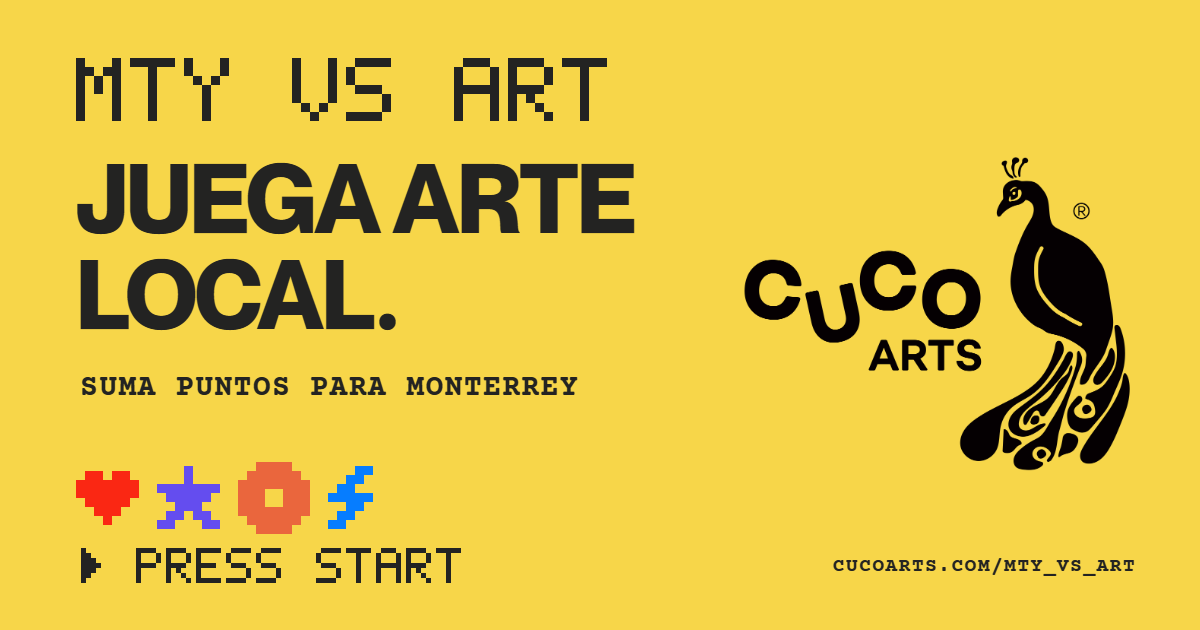
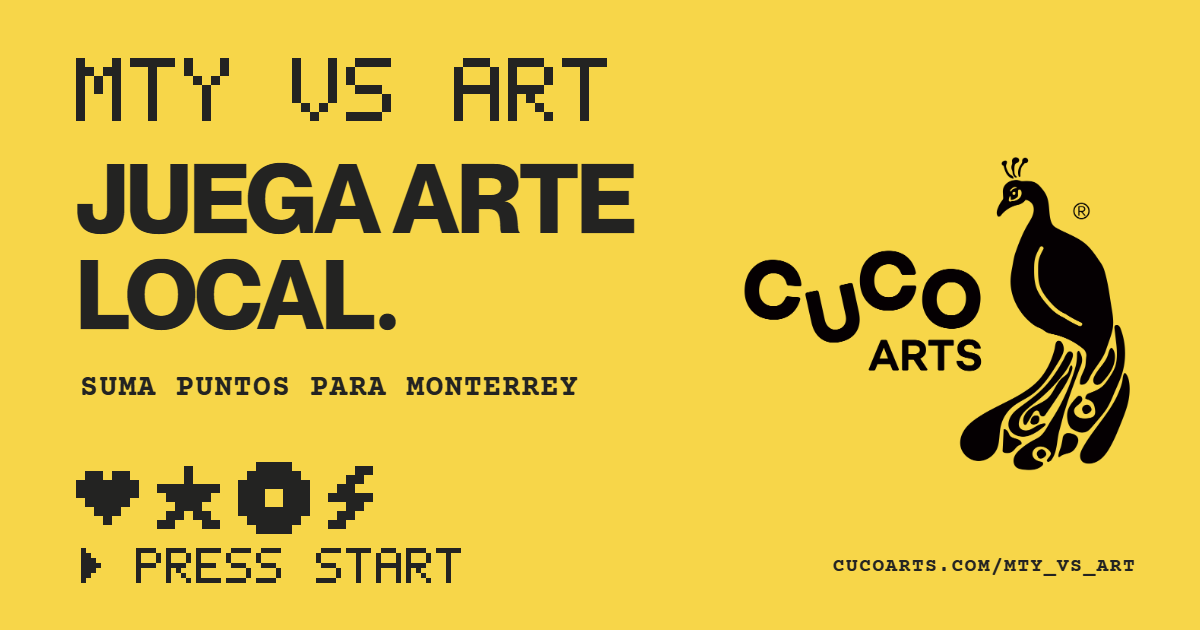
/mty_vs_art: tabla de comunidad con porcentajes, contraste en modo noche y sprites de la imagen en un tono
"Quien forma la comunidad" ahora es una tabla (cuentas y XP por categoria, con porcentaje y barra, mas total). Se reordenan las tarjetas, se corrigen contrastes (boton rojo, etiqueta YOU ARE HERE) y la imagen de vista previa lleva los sprites en un solo tono.

Changed region(s): [[0.0617, 0.7238, 0.3083, 0.8444]]

diff --git a/frontend/public/mty_vs_art/index.html b/frontend/public/mty_vs_art/index.html
@@ -23,7 +23,7 @@ a{color:inherit}.w{max-width:1040px;margin:0 auto;padding:0 max(16px,env(safe-ar
 .hero p.lead{font:800 clamp(26px,4.4vw,42px)/1.08 var(--sans);letter-spacing:-.03em;margin:18px 0 6px;max-width:20ch}
 .hero p.sub{font:700 16px var(--mono);max-width:60ch;margin:6px 0 22px}
 .btns{display:flex;gap:12px;flex-wrap:wrap}.btn{display:inline-block;font:800 17px var(--sans);text-decoration:none;border:4px solid var(--ink);border-radius:999px;padding:13px 26px;background:var(--dk);color:var(--yel);cursor:pointer}
-.btn.alt{background:var(--surf);color:var(--ink)}.btn.red{background:var(--red);color:#fff}.btn:hover{transform:translateY(-2px)}
+.btn.alt{background:var(--surf);color:var(--ink)}.btn.red{background:#C71F0E;color:#fff}.btn:hover{transform:translateY(-2px)}
 section{padding:40px 0}section h2{font:800 clamp(26px,4vw,38px)/1.05 var(--sans);letter-spacing:-.03em;margin:0 0 6px}section .k{font:700 13px var(--mono);letter-spacing:.12em;text-transform:uppercase;color:var(--mut);margin-bottom:6px}
 .card{background:var(--surf);border:5px solid var(--ink);border-radius:28px;padding:20px 22px}.dark{background:var(--dk);color:var(--cream)}
 .grid{display:grid;gap:14px}.g2{grid-template-columns:repeat(2,1fr)}.g3{grid-template-columns:repeat(3,1fr)}.g4{grid-template-columns:repeat(4,1fr)}
@@ -45,7 +45,7 @@ input[type=text],input[type=email],input[type=tel],select{width:100%;font:600 18
 .opt{display:flex;gap:8px;flex-wrap:wrap}.opt label{margin:0;display:flex;align-items:center;gap:6px;border:3px solid var(--ink);border-radius:999px;padding:7px 14px;cursor:pointer;background:var(--surf);font-size:12px}.opt input{accent-color:var(--ink)}
 .opt label:has(input:checked){background:var(--yel);color:var(--dk)}.hp{position:absolute;left:-9999px;width:1px;height:1px;overflow:hidden}
 .ck{display:flex;gap:10px;align-items:flex-start;font:600 15px/1.4 var(--sans);text-transform:none;letter-spacing:0}.ck input{width:22px;height:22px;margin-top:2px;accent-color:var(--ink)}
-.msg{font:700 15px var(--mono);padding:12px 14px;border:4px solid var(--ink);border-radius:16px}.msg.ok{background:var(--lime);color:var(--dk)}.msg.err{background:var(--red);color:#fff}
+.msg{font:700 15px var(--mono);padding:12px 14px;border:4px solid var(--ink);border-radius:16px}.msg.ok{background:var(--lime);color:var(--dk)}.msg.err{background:#C71F0E;color:#fff}
 .code{font:800 36px var(--mono);letter-spacing:.12em;background:var(--surf);border:4px dashed var(--ink);border-radius:16px;padding:10px 18px;display:inline-block}
 .shots{display:grid;grid-template-columns:repeat(5,1fr);gap:12px}.shots a{display:block;border:4px solid var(--ink);border-radius:18px;overflow:hidden;background:var(--ink);text-decoration:none}.shots img{display:block;width:100%;height:auto}.shots span{display:block;font:800 12px var(--mono);padding:6px 8px;color:var(--cream);text-transform:uppercase}
 @media(max-width:900px){.shots{grid-template-columns:repeat(2,1fr)}}
@@ -54,6 +54,16 @@ footer{background:var(--dk);border-top:4px solid var(--ink);color:var(--cream);p
 .hide{display:none!important}
 .chips{display:flex;flex-wrap:wrap;gap:8px}.chp{display:inline-block;border:3px solid var(--ink);border-radius:999px;padding:5px 12px;background:#fff;font:700 13px var(--mono)}.chp b{font-weight:800}
 section{scroll-margin-top:66px}
+/* tabla «quién forma la comunidad» */
+.cm table{table-layout:fixed}.cm caption{caption-side:top;text-align:left;font:700 13px/1.4 var(--mono);color:var(--mut);padding:0 0 10px}
+.cm th,.cm td{padding:10px 6px;vertical-align:middle;overflow-wrap:anywhere}.cm thead th{border-bottom:3px solid var(--ink);color:var(--mut);font-size:11px;letter-spacing:.06em;line-height:1.25;text-transform:uppercase;vertical-align:bottom}
+.cm th[scope=row]{font:800 15px/1.2 var(--sans);letter-spacing:-.01em;text-transform:none;color:var(--ink);border-top:2px dashed var(--line,rgba(35,35,34,.25))}.cm td{border-top:2px dashed var(--line,rgba(35,35,34,.25))}
+.cm .c1{width:40%}.cm .c2,.cm .c3{width:30%}
+.cm .nb{display:block;font:800 18px/1.1 var(--mono)}.cm .pc{display:flex;align-items:center;gap:6px;margin-top:5px;font:700 12px var(--mono)}
+.cm .tr{flex:1;min-width:20px;height:10px;border:2px solid var(--ink);border-radius:99px;background:var(--bg);overflow:hidden}.cm .tr i{display:block;height:100%;background:var(--yel)}.cm .tr.x i{background:var(--vio)}
+.cm tfoot th,.cm tfoot td{border-top:3px solid var(--ink);font-weight:800}.cm tr.sc th[scope=row]{font-weight:700;color:var(--mut)}
+.cm .nt{margin:12px 0 0;font:700 12px/1.4 var(--mono);color:var(--mut)}
+@media(max-width:420px){.cm th,.cm td{padding:9px 3px}.cm th[scope=row]{font-size:14px}.cm .nb{font-size:16px}.cm .c1{width:38%}.cm .pc{font-size:11px}}
 .btn{min-height:48px}
 .hero{padding:28px 0 24px}
 .hero p.lead{margin:14px 0 4px}
@@ -265,7 +275,8 @@ header.top .wrap{padding-top:14px;padding-bottom:14px}
 .sg.on::after{content:"✓";position:absolute;top:4px;right:8px;font:800 15px var(--mono);color:var(--ink)}
 .sg.here{border-color:var(--blue)!important;box-shadow:4px 4px 0 var(--blue)}
 .sg.here::after{content:"📍";position:absolute;top:4px;right:8px;font-size:14px}
-.sg .tag{display:block;margin-top:4px;font:800 10px var(--mono);color:var(--blue);letter-spacing:.08em}
+.sg .tag{display:block;margin-top:4px;font:800 10px var(--mono);color:#0455B8;letter-spacing:.08em}
+:root[data-theme="dark"] .sg .tag{color:#6FB1FF}@media (prefers-color-scheme:dark){:root:not([data-theme="light"]) .sg .tag{color:#6FB1FF}}
 /* emojis en rótulos */
 #jugar .k::before{content:"🎮 "}#unete .k::before{content:"👾 "}#historias .k::before{content:"🎨 "}#comparte .k::before{content:"⭐ "}#reglas .w>.k::before{content:"🕹 "}.soon .k::before{content:"🪙 "}
 </style>
@@ -295,8 +306,8 @@ header.top .wrap{padding-top:14px;padding-bottom:14px}
   <div class="dates" id="dates"></div>
   <div class="grid g2" style="margin-top:14px">
     <div class="card"><div class="k" data-i="top_ev">🏆 TOP EVENTOS DEL MES</div><div id="ev-list"></div></div>
-    <div class="card" style="grid-column:1/-1"><div class="k" id="cats-k">QUIÉN FORMA LA COMUNIDAD</div><div id="cats" class="chips"></div></div>
     <div class="card"><div class="k" id="top-u">⚔ TOP ART PEOPLE</div><div id="u-list"></div><p class="sm" id="claimed" style="margin:12px 0 0"></p></div>
+    <div class="card cm" style="grid-column:1/-1"><div class="k" id="cats-k">QUIÉN FORMA LA COMUNIDAD</div><div id="cats"></div></div>
   </div>
   <div class="card" style="margin-top:14px"><div class="k" data-i="src_k">QUIÉN SUMA</div><div class="seg" id="seg-src"></div><div class="sm" id="src-l" style="margin-top:8px;display:flex;justify-content:space-between;gap:8px;flex-wrap:wrap"></div><div class="k" style="margin-top:14px" data-i="stage_k">POR ETAPA DEL EVENTO</div><div class="seg" id="seg-et"></div><div class="sm" id="et-l" style="margin-top:8px;display:flex;gap:6px 14px;flex-wrap:wrap"></div></div>
 </div></section>
@@ -404,9 +415,9 @@ const PXF={A:'0E,11,11,1F,11,11,11',B:'1E,11,11,1E,11,11,1E',C:'0E,11,10,10,10,1
 const PXG={};Object.keys(PXF).forEach(k=>{PXG[k]=PXF[k].split(',').map(h=>parseInt(h,16))});
 function px(cv,txt,s,color,align){txt=String(txt).toUpperCase();const w=Math.max(1,txt.length*6*s-s),h=7*s;cv.width=w;cv.height=h+s*0;cv.style.width=w+'px';cv.style.maxWidth='100%';cv.style.height='auto';const g=cv.getContext('2d');g.clearRect(0,0,w,h);g.fillStyle=color||'#232322';let cx=0;for(const ch of txt){const rows=PXG[ch]||PXG['?'];rows.forEach((b,r)=>{for(let c=0;c<5;c++)if(b&(16>>c))g.fillRect(cx+c*s,r*s,s,s)});cx+=6*s}}
 /* ---------- textos ES / EN ---------- */
-const T={es:{nav_events:'Eventos',nav_join:'Únete',back:'Volver',lang_btn:'EN',th_day:'Modo día',th_night:'Modo noche',theme_to_light:'Cambiar a modo día',theme_to_dark:'Cambiar a modo noche',lang_title:'Cambiar idioma',d_season:'Temporada',d_data:'Datos al',d_week:'Semana',loading:'CARGANDO',hero_lead:'Juega arte local en Monterrey.',hero_sub:'Crea · experimenta · comparte · repite. Suma puntos para ti y para la ciudad.',cta_claim:'Reclama tu usuario',cta_share:'Comparte un evento',board_h:'La comunidad de Monterrey',xp_month:'XP DEL MES',week_k:'ESTA SEMANA',src_k:'QUIÉN SUMA',stage_k:'POR ETAPA DEL EVENTO',top_ev:'🏆 TOP EVENTOS DEL MES',how_k:'Cómo se juega',how_h:'Cuatro pasos, una ciudad.',s1:'Crea tu propio post de arte local: foto, video o dibujo de lo que ves en un evento.',s2:'Experimenta: prueba un evento, un artista o una zona de Monterrey que no conocías.',s3:'Comparte: publica y etiqueta al evento y a @cucoarts, o compártelo desde cucoarts.com.',s4:'Repite cada semana: tus puntos se acumulan, subes de rango y la ciudad sube de nivel.',rules_k:'Las reglas',rules_h:'Puntos, etapas y rangos',t_act:'Acción',t_pts:'Puntos',t_stage:'Etapa del evento',t_when:'Cuándo',lv_k:'NIVELES DE LA CIUDAD (SE REINICIAN CADA MES)',rules_note:'Solo cuentan posts, historias y acciones con fecha desde el día 1 del mes. Las cuentas aliadas (patrocinadores, programas y fiestas oficiales) suman, pero se muestran aparte. Las cifras son las que se ven en pantalla; si Instagram oculta los me gusta, no se inventan.',join_k:'Únete',join_h:'Reclama tu usuario.',join_p:'Registra tu usuario de Instagram en ART PEOPLE. Todos los puntos que ya hayas sumado con posts, historias y eventos compartidos pasan a tu perfil.',join_how:'1) Llena el formulario → 2) te damos un código → 3) mándalo por mensaje directo a @cucoarts desde tu cuenta → 4) lo verificamos y tu usuario queda reclamado.',join_priv:'CUCO Cultural Collective México, S. de R.L. de C.V. (CUCO ARTS), Eden 7714, Col. Cumbres Providencia, Monterrey, N.L. Usamos tu usuario de Instagram, tu nombre público y, si quieres, tu correo o WhatsApp para verificar que la cuenta es tuya y llevar tu puntaje. Tu usuario (o tu alias), tu puntaje y tu rango se muestran en la clasificación pública. Tu correo o WhatsApp nunca se publica. Puedes retirar tu usuario o tus datos cuando quieras escribiendo a hello@cucoarts.com. Aviso de privacidad integral: cucoarts.com/privacidad',f_ig:'Tu usuario de Instagram',f_via:'Si quieres, dónde podemos escribirte (opcional)',v_ig:'Solo por Instagram',v_mail:'Correo',f_alias:'Nombre público (opcional)',f_consent:'Tengo 18 años o más, leí el aviso de privacidad y acepto que CUCO ARTS use estos datos para verificar mi usuario y mostrarlo en la clasificación pública con mi puntaje.',f_go:'Reclamar mi usuario',done_code:'Tu código:',done_copy:'Copiar código',done_dm:'Abrir mensaje a @cucoarts',done_how:'Manda el código por mensaje directo a @cucoarts desde tu cuenta. En cuanto lo veamos, tu usuario queda verificado.',share_k:'Comparte arte local',share_h:'Cada evento compartido suma.',sh1_h:'Comparte un evento',sh1_p:'Elige un evento en la agenda y comparte su historia o enlace. El evento gana puntos y tu usuario también.',sh1_b:'Ver la agenda',sh2_h:'Etiquétanos en tu historia',sh2_p:'Si publicas una historia etiquetando al evento, a su organizador o a @cucoarts, sumas +20.',sh3_h:'Recomienda a un artista',sh3_p:'¿Conoces a un artista visual de la zona metropolitana de Monterrey? Etiquétalo y etiquétanos: +15 para ti y para MTY.',sh3_b:'Escribir a @cucoarts',shots_k:'Las historias de la semana',shots_h:'Descárgalas y compártelas.',foot_p:'Un juego para descubrir, visitar y compartir el arte local de Monterrey.',foot_priv:'Aviso de privacidad',rules_open:'Ver puntos, etapas y rangos',soon_k:'PRÓXIMAMENTE',soon_h:'Retos y recompensas de la comunidad.',soon_p:'Vienen retos comunitarios y recompensas, en colaboración con organizadores, artistas y venues de artes visuales de Monterrey. Aún no hay fechas ni premios: lo iremos anunciando aquí y en @cucoarts.',collab_b:'Propón una colaboración',collab_t:'Organizadores, artistas y venues de artes visuales',c_tipo:'Eres',c_org:'Organizador',c_art:'Artista',c_ven:'Venue',c_nom:'Nombre',c_ig:'Usuario de Instagram o sitio',c_msg:'Tu propuesta (máx. 400 caracteres)',c_consent:'Entiendo que mis datos se usarán solo para responder a mi propuesta y no incluyo datos personales de otras personas.',c_go:'Preparar correo',c_note:'Lo que escribas solo llega a CUCO ARTS si envías el correo desde tu programa de correo (hello@cucoarts.com). Respondemos por correo o Instagram.',c_e_nom:'Escribe tu nombre.',c_e_ig:'Escribe tu usuario de Instagram o tu sitio.',c_e_msg:'Cuéntanos tu propuesta en pocas palabras.',c_e_consent:'Marca la casilla para continuar.',c_ok:'Se abrió tu app de correo. Si no pasó nada, escríbenos a hello@cucoarts.com.',c_l_tipo:'Tipo',c_l_nom:'Nombre',c_l_ig:'Instagram o sitio',c_l_msg:'Propuesta',c_tipos:{org:'Organizador',art:'Artista',venue:'Venue'},cats:{'lunes-1-en-curso':'EN CURSO','lunes-2-semanal':'SEMANAL','lunes-3-mensual':'MENSUAL','lunes-4-como-jugar':'CÓMO JUGAR','lunes-5-participa':'PARTICIPA'},dl:'⬇ Descargar',
+const T={es:{nav_events:'Eventos',cm_cap:'Cuentas y XP por categoría. Cada porcentaje es la parte de ese total.',cm_cat:'Categoría',cm_n:'Cuentas · % del total',cm_xp:'XP · % del total',cm_tot:'Total',cm_sin:'Sin categoría aún',cm_note:'Porcentajes redondeados para que cada columna sume 100 %. El total es la suma de las filas.',nav_join:'Únete',back:'Volver',lang_btn:'EN',th_day:'Modo día',th_night:'Modo noche',theme_to_light:'Cambiar a modo día',theme_to_dark:'Cambiar a modo noche',lang_title:'Cambiar idioma',d_season:'Temporada',d_data:'Datos al',d_week:'Semana',loading:'CARGANDO',hero_lead:'Juega arte local en Monterrey.',hero_sub:'Crea · experimenta · comparte · repite. Suma puntos para ti y para la ciudad.',cta_claim:'Reclama tu usuario',cta_share:'Comparte un evento',board_h:'La comunidad de Monterrey',xp_month:'XP DEL MES',week_k:'ESTA SEMANA',src_k:'QUIÉN SUMA',stage_k:'POR ETAPA DEL EVENTO',top_ev:'🏆 TOP EVENTOS DEL MES',how_k:'Cómo se juega',how_h:'Cuatro pasos, una ciudad.',s1:'Crea tu propio post de arte local: foto, video o dibujo de lo que ves en un evento.',s2:'Experimenta: prueba un evento, un artista o una zona de Monterrey que no conocías.',s3:'Comparte: publica y etiqueta al evento y a @cucoarts, o compártelo desde cucoarts.com.',s4:'Repite cada semana: tus puntos se acumulan, subes de rango y la ciudad sube de nivel.',rules_k:'Las reglas',rules_h:'Puntos, etapas y rangos',t_act:'Acción',t_pts:'Puntos',t_stage:'Etapa del evento',t_when:'Cuándo',lv_k:'NIVELES DE LA CIUDAD (SE REINICIAN CADA MES)',rules_note:'Solo cuentan posts, historias y acciones con fecha desde el día 1 del mes. Las cuentas aliadas (patrocinadores, programas y fiestas oficiales) suman, pero se muestran aparte. Las cifras son las que se ven en pantalla; si Instagram oculta los me gusta, no se inventan.',join_k:'Únete',join_h:'Reclama tu usuario.',join_p:'Registra tu usuario de Instagram en ART PEOPLE. Todos los puntos que ya hayas sumado con posts, historias y eventos compartidos pasan a tu perfil.',join_how:'1) Llena el formulario → 2) te damos un código → 3) mándalo por mensaje directo a @cucoarts desde tu cuenta → 4) lo verificamos y tu usuario queda reclamado.',join_priv:'CUCO Cultural Collective México, S. de R.L. de C.V. (CUCO ARTS), Eden 7714, Col. Cumbres Providencia, Monterrey, N.L. Usamos tu usuario de Instagram, tu nombre público y, si quieres, tu correo o WhatsApp para verificar que la cuenta es tuya y llevar tu puntaje. Tu usuario (o tu alias), tu puntaje y tu rango se muestran en la clasificación pública. Tu correo o WhatsApp nunca se publica. Puedes retirar tu usuario o tus datos cuando quieras escribiendo a hello@cucoarts.com. Aviso de privacidad integral: cucoarts.com/privacidad',f_ig:'Tu usuario de Instagram',f_via:'Si quieres, dónde podemos escribirte (opcional)',v_ig:'Solo por Instagram',v_mail:'Correo',f_alias:'Nombre público (opcional)',f_consent:'Tengo 18 años o más, leí el aviso de privacidad y acepto que CUCO ARTS use estos datos para verificar mi usuario y mostrarlo en la clasificación pública con mi puntaje.',f_go:'Reclamar mi usuario',done_code:'Tu código:',done_copy:'Copiar código',done_dm:'Abrir mensaje a @cucoarts',done_how:'Manda el código por mensaje directo a @cucoarts desde tu cuenta. En cuanto lo veamos, tu usuario queda verificado.',share_k:'Comparte arte local',share_h:'Cada evento compartido suma.',sh1_h:'Comparte un evento',sh1_p:'Elige un evento en la agenda y comparte su historia o enlace. El evento gana puntos y tu usuario también.',sh1_b:'Ver la agenda',sh2_h:'Etiquétanos en tu historia',sh2_p:'Si publicas una historia etiquetando al evento, a su organizador o a @cucoarts, sumas +20.',sh3_h:'Recomienda a un artista',sh3_p:'¿Conoces a un artista visual de la zona metropolitana de Monterrey? Etiquétalo y etiquétanos: +15 para ti y para MTY.',sh3_b:'Escribir a @cucoarts',shots_k:'Las historias de la semana',shots_h:'Descárgalas y compártelas.',foot_p:'Un juego para descubrir, visitar y compartir el arte local de Monterrey.',foot_priv:'Aviso de privacidad',rules_open:'Ver puntos, etapas y rangos',soon_k:'PRÓXIMAMENTE',soon_h:'Retos y recompensas de la comunidad.',soon_p:'Vienen retos comunitarios y recompensas, en colaboración con organizadores, artistas y venues de artes visuales de Monterrey. Aún no hay fechas ni premios: lo iremos anunciando aquí y en @cucoarts.',collab_b:'Propón una colaboración',collab_t:'Organizadores, artistas y venues de artes visuales',c_tipo:'Eres',c_org:'Organizador',c_art:'Artista',c_ven:'Venue',c_nom:'Nombre',c_ig:'Usuario de Instagram o sitio',c_msg:'Tu propuesta (máx. 400 caracteres)',c_consent:'Entiendo que mis datos se usarán solo para responder a mi propuesta y no incluyo datos personales de otras personas.',c_go:'Preparar correo',c_note:'Lo que escribas solo llega a CUCO ARTS si envías el correo desde tu programa de correo (hello@cucoarts.com). Respondemos por correo o Instagram.',c_e_nom:'Escribe tu nombre.',c_e_ig:'Escribe tu usuario de Instagram o tu sitio.',c_e_msg:'Cuéntanos tu propuesta en pocas palabras.',c_e_consent:'Marca la casilla para continuar.',c_ok:'Se abrió tu app de correo. Si no pasó nada, escríbenos a hello@cucoarts.com.',c_l_tipo:'Tipo',c_l_nom:'Nombre',c_l_ig:'Instagram o sitio',c_l_msg:'Propuesta',c_tipos:{org:'Organizador',art:'Artista',venue:'Venue'},cats:{'lunes-1-en-curso':'EN CURSO','lunes-2-semanal':'SEMANAL','lunes-3-mensual':'MENSUAL','lunes-4-como-jugar':'CÓMO JUGAR','lunes-5-participa':'PARTICIPA'},dl:'⬇ Descargar',
   season:'TEMPORADA',updated:'Actualizado',next:'SIGUE',max:'NIVEL MÁXIMO',wk_sub:'⚡ PUNTOS DE LA SEMANA',com:'COMUNIDAD',ali:'ALIADOS',claimed:'usuarios ya reclamados',claimed1:'usuario ya reclamado',none:'Aún no hay datos.',a_post:'Post publicado',a_like:'Me gusta',a_comment:'Comentario',a_share:'Compartido (republicado o enviado)',a_story:'Historia que etiqueta al evento, a su organizador o a @cucoarts',a_artist:'Recomendar a un artista visual local etiquetándolo y etiquetándonos',a_reg:'Reclamar tu usuario (una vez)',a_cshare:'Compartir un evento desde cucoarts.com (también suma +10 al evento)',e_previa:'Hasta 14 días antes de abrir',e_inaug:'Día de apertura y el siguiente',e_curso:'Mientras dura',e_cierre:'Últimos 2 días',e_activ:'Actividad especial',stage_names:{previa:'PRE-LAUNCH',inaug:'OPENING',curso:'LIVE',cierre:'FINALE',activ:'ACTIVATION'},f_mkt:'Quiero recibir invitaciones y recomendaciones de eventos y artes visuales en este medio. Puedo dejar de recibirlas respondiendo NO o escribiendo a hello@cucoarts.com.',f_apub:'Mostrarme con un alias en lugar de mi usuario de Instagram en la clasificación pública.',priv_link:'Aviso de privacidad',f_via_note:'No lo usamos para publicidad si no marcas la casilla de invitaciones.',done_keep:'Guardamos tu solicitud 90 días si no la verificamos. Para borrarla antes, escribe a hello@cucoarts.com.',f_cat:'Soy… (tu categoría en la comunidad)',errs:{cat:'Elige tu categoría para continuar.',age:'Confirma que tienes 18 años o más y que leíste el aviso para continuar.',ig:'Escribe tu usuario de Instagram (solo letras, números, punto y guion bajo).',contacto:'Revisa tu correo o WhatsApp.',consent:'Marca la casilla para continuar.',duplicate:'Ese usuario ya fue reclamado o está en revisión. Si es tuyo, escríbenos a @cucoarts.',net:'No pudimos conectar. Intenta de nuevo en un momento.',off:'El registro abre muy pronto.',generic:'No pudimos registrarte. Intenta de nuevo.'},ok:'¡Listo! Ya casi: solo falta verificar que la cuenta es tuya.',mail:'Correo',wa:'WhatsApp',copied:'¡Copiado!'},
-en:{nav_events:'Events',nav_join:'Join',back:'Back',lang_btn:'ES',th_day:'Day mode',th_night:'Night mode',theme_to_light:'Switch to light mode',theme_to_dark:'Switch to dark mode',lang_title:'Change language',d_season:'Season',d_data:'Data as of',d_week:'Week',loading:'LOADING',hero_lead:'Play local art in Monterrey.',hero_sub:'Create · experiment · share · repeat. Earn points for you and the city.',cta_claim:'Claim your handle',cta_share:'Share an event',board_h:'Monterrey’s community',xp_month:'MONTH XP',week_k:'THIS WEEK',src_k:'WHO SCORES',stage_k:'BY EVENT STAGE',top_ev:'🏆 TOP EVENTS OF THE MONTH',how_k:'How to play',how_h:'Four steps, one city.',s1:'Create your own post about local art: a photo, video or drawing of what you see at an event.',s2:'Experiment: try an event, an artist or a zone of Monterrey you have never visited.',s3:'Share: post and tag the event and @cucoarts, or share it from cucoarts.com.',s4:'Repeat every week: your points add up, you rank up and the city levels up.',rules_k:'The rules',rules_h:'Points, stages and ranks',t_act:'Action',t_pts:'Points',t_stage:'Event stage',t_when:'When',lv_k:'CITY LEVELS (RESET EVERY MONTH)',rules_note:'Only posts, stories and actions dated from day 1 of the month count. Allied accounts (sponsors, programs and official parties) score too, but are shown separately. Numbers are the ones visible on screen; if Instagram hides likes, we do not make them up.',join_k:'Join',join_h:'Claim your handle.',join_p:'Register your Instagram handle in ART PEOPLE. All the points you have already earned with posts, stories and shared events move to your profile.',join_how:'1) Fill in the form → 2) we give you a code → 3) send it as a direct message to @cucoarts from your account → 4) we verify it and your handle is claimed.',join_priv:'CUCO Cultural Collective México, S. de R.L. de C.V. (CUCO ARTS), Eden 7714, Col. Cumbres Providencia, Monterrey, N.L. We use your Instagram handle, public name and, if you wish, your email or WhatsApp to verify the account is yours and keep your score. Your handle (or alias), score and rank appear in the public leaderboard. Your email or WhatsApp is never published. You can withdraw your handle or data at any time at hello@cucoarts.com. Full privacy notice: cucoarts.com/privacidad',f_ig:'Your Instagram handle',f_via:'If you wish, where can we write to you (optional)',v_ig:'Instagram only',v_mail:'Email',f_alias:'Public name (optional)',f_consent:'I am 18 or older, I read the privacy notice and I agree that CUCO ARTS uses this data to verify my handle and show it in the public leaderboard with my score.',f_go:'Claim my handle',done_code:'Your code:',done_copy:'Copy code',done_dm:'Message @cucoarts',done_how:'Send the code as a direct message to @cucoarts from your account. Once we see it, your handle is verified.',share_k:'Share local art',share_h:'Every shared event counts.',sh1_h:'Share an event',sh1_p:'Pick an event in the agenda and share its story or link. The event earns points and so do you.',sh1_b:'See the agenda',sh2_h:'Tag us in your story',sh2_p:'Post a story tagging the event, its organizer or @cucoarts and earn +20.',sh3_h:'Recommend an artist',sh3_p:'Know a visual artist in the Monterrey metro area? Tag them and tag us: +15 for you and for MTY.',sh3_b:'Message @cucoarts',shots_k:'This week’s stories',shots_h:'Download and share them.',foot_p:'A game to discover, visit and share Monterrey’s local art.',foot_priv:'Privacy notice',rules_open:'See points, stages and ranks',soon_k:'COMING SOON',soon_h:'Community challenges and rewards.',soon_p:'Community challenges and rewards are coming, built with organizers, artists and visual-art venues in Monterrey. No dates or prizes yet: we will announce them here and on @cucoarts.',collab_b:'Propose a collaboration',collab_t:'Organizers, artists and visual-art venues',c_tipo:'You are',c_org:'Organizer',c_art:'Artist',c_ven:'Venue',c_nom:'Name',c_ig:'Instagram handle or website',c_msg:'Your proposal (max. 400 characters)',c_consent:'I understand my data will only be used to reply to my proposal and I include no personal data of other people.',c_go:'Prepare email',c_note:'What you write only reaches CUCO ARTS if you send the email from your email app (hello@cucoarts.com). We reply by email or Instagram.',c_e_nom:'Enter your name.',c_e_ig:'Enter your Instagram handle or website.',c_e_msg:'Tell us your proposal in a few words.',c_e_consent:'Tick the box to continue.',c_ok:'Your email app opened. If nothing happened, write to hello@cucoarts.com.',c_l_tipo:'Type',c_l_nom:'Name',c_l_ig:'Instagram or website',c_l_msg:'Proposal',c_tipos:{org:'Organizer',art:'Artist',venue:'Venue'},cats:{'lunes-1-en-curso':'LIVE','lunes-2-semanal':'WEEKLY','lunes-3-mensual':'MONTHLY','lunes-4-como-jugar':'HOW TO PLAY','lunes-5-participa':'JOIN'},dl:'⬇ Download',
+en:{nav_events:'Events',cm_cap:'Accounts and XP by category. Each percentage is the share of that total.',cm_cat:'Category',cm_n:'Accounts · % of total',cm_xp:'XP · % of total',cm_tot:'Total',cm_sin:'Not categorized yet',cm_note:'Percentages are rounded so each column adds up to 100%. The total is the sum of the rows.',nav_join:'Join',back:'Back',lang_btn:'ES',th_day:'Day mode',th_night:'Night mode',theme_to_light:'Switch to light mode',theme_to_dark:'Switch to dark mode',lang_title:'Change language',d_season:'Season',d_data:'Data as of',d_week:'Week',loading:'LOADING',hero_lead:'Play local art in Monterrey.',hero_sub:'Create · experiment · share · repeat. Earn points for you and the city.',cta_claim:'Claim your handle',cta_share:'Share an event',board_h:'Monterrey’s community',xp_month:'MONTH XP',week_k:'THIS WEEK',src_k:'WHO SCORES',stage_k:'BY EVENT STAGE',top_ev:'🏆 TOP EVENTS OF THE MONTH',how_k:'How to play',how_h:'Four steps, one city.',s1:'Create your own post about local art: a photo, video or drawing of what you see at an event.',s2:'Experiment: try an event, an artist or a zone of Monterrey you have never visited.',s3:'Share: post and tag the event and @cucoarts, or share it from cucoarts.com.',s4:'Repeat every week: your points add up, you rank up and the city levels up.',rules_k:'The rules',rules_h:'Points, stages and ranks',t_act:'Action',t_pts:'Points',t_stage:'Event stage',t_when:'When',lv_k:'CITY LEVELS (RESET EVERY MONTH)',rules_note:'Only posts, stories and actions dated from day 1 of the month count. Allied accounts (sponsors, programs and official parties) score too, but are shown separately. Numbers are the ones visible on screen; if Instagram hides likes, we do not make them up.',join_k:'Join',join_h:'Claim your handle.',join_p:'Register your Instagram handle in ART PEOPLE. All the points you have already earned with posts, stories and shared events move to your profile.',join_how:'1) Fill in the form → 2) we give you a code → 3) send it as a direct message to @cucoarts from your account → 4) we verify it and your handle is claimed.',join_priv:'CUCO Cultural Collective México, S. de R.L. de C.V. (CUCO ARTS), Eden 7714, Col. Cumbres Providencia, Monterrey, N.L. We use your Instagram handle, public name and, if you wish, your email or WhatsApp to verify the account is yours and keep your score. Your handle (or alias), score and rank appear in the public leaderboard. Your email or WhatsApp is never published. You can withdraw your handle or data at any time at hello@cucoarts.com. Full privacy notice: cucoarts.com/privacidad',f_ig:'Your Instagram handle',f_via:'If you wish, where can we write to you (optional)',v_ig:'Instagram only',v_mail:'Email',f_alias:'Public name (optional)',f_consent:'I am 18 or older, I read the privacy notice and I agree that CUCO ARTS uses this data to verify my handle and show it in the public leaderboard with my score.',f_go:'Claim my handle',done_code:'Your code:',done_copy:'Copy code',done_dm:'Message @cucoarts',done_how:'Send the code as a direct message to @cucoarts from your account. Once we see it, your handle is verified.',share_k:'Share local art',share_h:'Every shared event counts.',sh1_h:'Share an event',sh1_p:'Pick an event in the agenda and share its story or link. The event earns points and so do you.',sh1_b:'See the agenda',sh2_h:'Tag us in your story',sh2_p:'Post a story tagging the event, its organizer or @cucoarts and earn +20.',sh3_h:'Recommend an artist',sh3_p:'Know a visual artist in the Monterrey metro area? Tag them and tag us: +15 for you and for MTY.',sh3_b:'Message @cucoarts',shots_k:'This week’s stories',shots_h:'Download and share them.',foot_p:'A game to discover, visit and share Monterrey’s local art.',foot_priv:'Privacy notice',rules_open:'See points, stages and ranks',soon_k:'COMING SOON',soon_h:'Community challenges and rewards.',soon_p:'Community challenges and rewards are coming, built with organizers, artists and visual-art venues in Monterrey. No dates or prizes yet: we will announce them here and on @cucoarts.',collab_b:'Propose a collaboration',collab_t:'Organizers, artists and visual-art venues',c_tipo:'You are',c_org:'Organizer',c_art:'Artist',c_ven:'Venue',c_nom:'Name',c_ig:'Instagram handle or website',c_msg:'Your proposal (max. 400 characters)',c_consent:'I understand my data will only be used to reply to my proposal and I include no personal data of other people.',c_go:'Prepare email',c_note:'What you write only reaches CUCO ARTS if you send the email from your email app (hello@cucoarts.com). We reply by email or Instagram.',c_e_nom:'Enter your name.',c_e_ig:'Enter your Instagram handle or website.',c_e_msg:'Tell us your proposal in a few words.',c_e_consent:'Tick the box to continue.',c_ok:'Your email app opened. If nothing happened, write to hello@cucoarts.com.',c_l_tipo:'Type',c_l_nom:'Name',c_l_ig:'Instagram or website',c_l_msg:'Proposal',c_tipos:{org:'Organizer',art:'Artist',venue:'Venue'},cats:{'lunes-1-en-curso':'LIVE','lunes-2-semanal':'WEEKLY','lunes-3-mensual':'MONTHLY','lunes-4-como-jugar':'HOW TO PLAY','lunes-5-participa':'JOIN'},dl:'⬇ Download',
   season:'SEASON',updated:'Updated',next:'NEXT',max:'MAX LEVEL',wk_sub:'⚡ POINTS THIS WEEK',com:'COMMUNITY',ali:'ALLIES',claimed:'handles already claimed',claimed1:'handle already claimed',none:'No data yet.',a_post:'Post published',a_like:'Like',a_comment:'Comment',a_share:'Share (reposted or sent)',a_story:'Story tagging the event, its organizer or @cucoarts',a_artist:'Recommend a local visual artist tagging them and us',a_reg:'Claim your handle (once)',a_cshare:'Share an event from cucoarts.com (also +10 for the event)',e_previa:'Up to 14 days before opening',e_inaug:'Opening day and the next',e_curso:'While it runs',e_cierre:'Last 2 days',e_activ:'Special activity',stage_names:{previa:'PRE-LAUNCH',inaug:'OPENING',curso:'LIVE',cierre:'FINALE',activ:'ACTIVATION'},f_mkt:'I want to receive invitations and recommendations about events and visual arts this way. I can stop by replying NO or writing to hello@cucoarts.com.',f_apub:'Show me with an alias instead of my Instagram handle in the public leaderboard.',priv_link:'Privacy notice',f_via_note:'We do not use it for advertising unless you tick the invitations box.',done_keep:'We keep your request for 90 days if it is not verified. To delete it sooner, write to hello@cucoarts.com.',f_cat:'I am… (your category in the community)',errs:{cat:'Choose your category to continue.',age:'Confirm you are 18 or older and that you read the notice to continue.',ig:'Enter your Instagram handle (letters, numbers, dots and underscores only).',contacto:'Check your email or WhatsApp.',consent:'Tick the box to continue.',duplicate:'That handle is already claimed or under review. If it is yours, message us at @cucoarts.',net:'We could not connect. Try again in a moment.',off:'Sign-up opens very soon.',generic:'We could not register you. Try again.'},ok:'Done! Almost there: we just need to verify the account is yours.',mail:'Email',wa:'WhatsApp',copied:'Copied!'}};
 let LANG=(()=>{try{const s=localStorage.getItem('cucoarts-lang')||localStorage.getItem('mvsa-lang');if(s==='es'||s==='en')return s}catch(e){}return /^en/i.test(navigator.language||'')?'en':'es'})();
 const t=k=>(T[LANG]||T.es)[k]||T.es[k]||k, esc=s=>String(s==null?'':s).replace(/[&<>"']/g,c=>({'&':'&amp;','<':'&lt;','>':'&gt;','"':'&quot;',"'":'&#39;'}[c]));
@@ -462,7 +473,15 @@ function render(){
   $('#claimed').textContent=(LANG==='en'?'🔒 Handles appear here when people sign up and verify their account. Unlocked so far: ':'🔒 Los usuarios aparecen aquí cuando se registran y verifican su cuenta. Desbloqueados hasta hoy: ')+(M.desbloqueados||0);
   const catOf=k=>(M.categorias||[]).find(c=>c[0]===k); window.catTxt=u=>{const c=catOf(u.cat); if(c)return ' · '+c[1]+' '+(LANG==='en'?c[3]:c[2]); const g=u.grupo; return g==='org'?' · 🏢 '+(LANG==='en'?'Organization':'Organización'):g==='persona'?' · 🙋 '+(LANG==='en'?'Person':'Persona'):''};
   $('#cats-k').textContent=LANG==='en'?'WHO MAKES UP THE COMMUNITY':'QUIÉN FORMA LA COMUNIDAD';
-  $('#cats').innerHTML=(M.porCategoria||[]).filter(x=>x.k!=='sin').map(x=>{const c=catOf(x.k); const lbl=c?c[1]+' '+(LANG==='en'?c[3]:c[2]):x.k==='otros_org'?'🏢 '+(LANG==='en'?'Other organizations':'Otras organizaciones'):'🙋 '+(LANG==='en'?'Other people':'Otras personas'); return '<span class="chp"><b>'+esc(lbl)+'</b> '+x.n+' · '+fmtN(x.xp)+' XP</span>'}).join('');
+  {const rows=(M.porCategoria||[]).map(x=>({k:x.k,n:x.n||0,xp:x.xp||0})).sort((p,q)=>(p.k==='sin')-(q.k==='sin')||q.xp-p.xp), en=LANG==='en';
+    const tn=rows.reduce((p,x)=>p+x.n,0)||1, tx=rows.reduce((p,x)=>p+x.xp,0)||1;
+    const split=(key,tot)=>{const raw=rows.map(x=>100*x[key]/tot), fl=raw.map(Math.floor); let left=100-fl.reduce((p,x)=>p+x,0); raw.map((v,i)=>[v-fl[i],i]).sort((p,q)=>q[0]-p[0]).forEach(([,i])=>{if(left>0){fl[i]++;left--}}); return fl}; // reparto por mayor residuo: suma 100
+    const pn=split('n',tn), px_=split('xp',tx);
+    const lbl=x=>{const c=catOf(x.k); return c?c[1]+' '+(en?c[3]:c[2]):x.k==='otros_org'?'🏢 '+(en?'Other organizations':'Otras organizaciones'):x.k==='sin'?'❔ '+t('cm_sin'):'🙋 '+(en?'Other people':'Otras personas')};
+    const cell=(v,p,xc)=>'<td><span class="nb">'+fmtN(v)+(xc?' XP':'')+'</span><span class="pc"><span class="tr'+(xc?' x':'')+'" aria-hidden="true"><i style="width:'+p+'%"></i></span><span>'+p+' %</span></span></td>';
+    $('#cats').innerHTML=rows.length?'<table><caption>'+esc(t('cm_cap'))+'</caption><colgroup><col class="c1"><col class="c2"><col class="c3"></colgroup><thead><tr><th scope="col">'+esc(t('cm_cat'))+'</th><th scope="col">'+esc(t('cm_n'))+'</th><th scope="col">'+esc(t('cm_xp'))+'</th></tr></thead><tbody>'
+      +rows.map((x,i)=>'<tr'+(x.k==='sin'?' class="sc"':'')+'><th scope="row">'+esc(lbl(x))+'</th>'+cell(x.n,pn[i],0)+cell(x.xp,px_[i],1)+'</tr>').join('')
+      +'</tbody><tfoot><tr><th scope="row">'+esc(t('cm_tot'))+'</th><td><span class="nb">'+fmtN(tn)+'</span><span class="pc"><span>100 %</span></span></td><td><span class="nb">'+fmtN(tx)+' XP</span><span class="pc"><span>100 %</span></span></td></tr></tfoot></table><p class="nt">'+esc(t('cm_note'))+'</p>':'<p class="sm">'+t('none')+'</p>'}
   const sel=$('#categoria'); if(sel&&!sel.dataset.ok){sel.dataset.ok='1'; sel.innerHTML='<option value="">'+(LANG==='en'?'Choose one…':'Elige una…')+'</option>'+(M.categorias||[]).map(c=>'<option value="'+c[0]+'">'+c[1]+' '+(LANG==='en'?c[3]:c[2])+'</option>').join('')}
   $('#u-list').innerHTML=M.users.length?M.users.slice(0,6).map((u,i)=>'<div class="row"><span class="rk">'+(['🥇','🥈','🥉'][i]||'#'+(i+1))+'</span><span class="t">'+(u.ig?'<a href="https://www.instagram.com/'+esc(u.ig)+'/" target="_blank" rel="noopener">@'+esc(u.ig)+'</a>':'<span title="'+(LANG==='en'?'This handle appears when the person signs up':'Su usuario aparece cuando se registra')+'">🔒 '+esc(u.alias||'ANON')+'</span>')+'<small>'+esc(u.rank)+' '+u.emoji+catTxt(u)+'</small></span><span class="pts">'+fmtN(u.xp)+'</span></div>').join(''):'<p class="sm">'+t('none')+'</p>';
   const P=M.reglas.PTS, R=M.reglas.REGIO_PTS;
